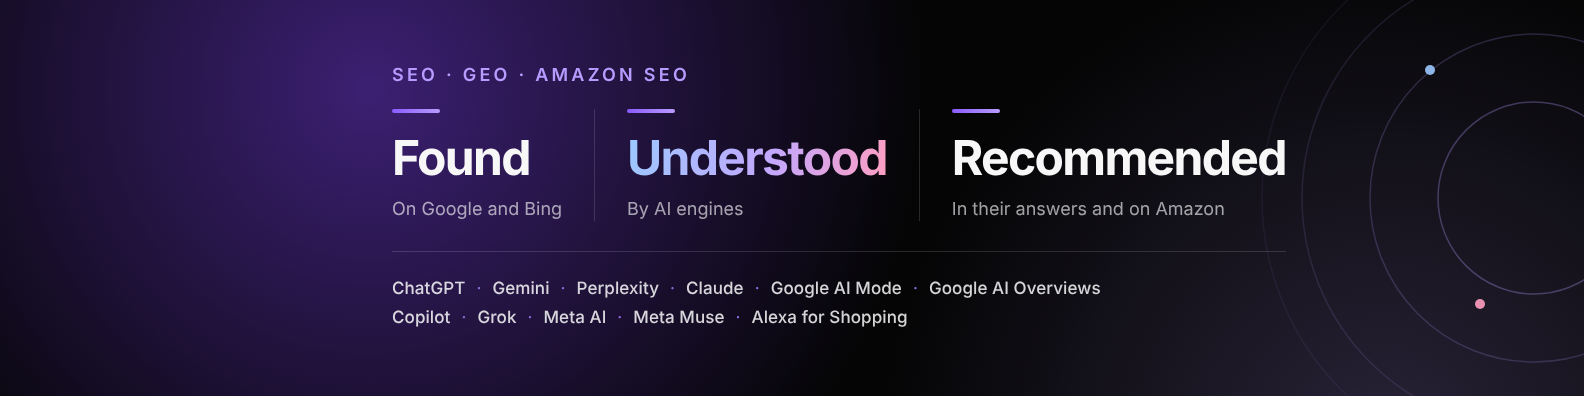
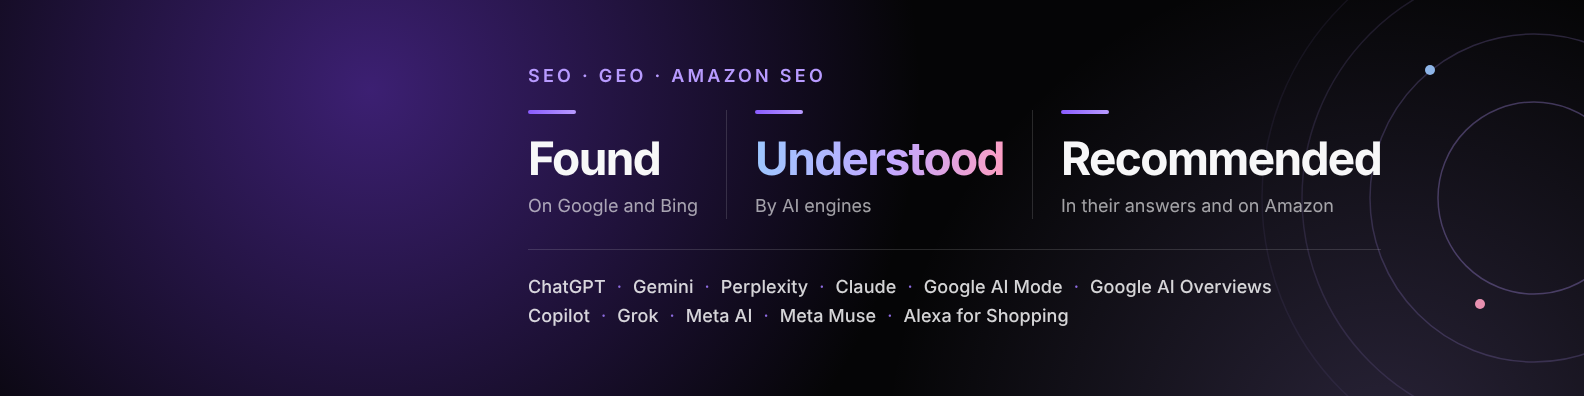
LinkedIn cover v2: text moved clear of the larger phone profile photo, larger engines list
Claude-Session: https://claude.ai/code/session_011B6n1KvdKxxhX2vFogUzTv

diff --git a/linkedin/PERFIL.md b/linkedin/PERFIL.md
@@ -31,3 +31,4 @@ Versión en inglés: ver `docs/LINKEDIN-PROFILE.md` en el repo GEONOS (PR #292 a
 ### Portada, versión 2 (2026-10-27)
 Rehecha con el estilo de diseño premium (fondo negro de la marca, violeta y lila, Inter, ritmo de 8 puntos): tres ideas de tu texto "Acerca de" (encontrado, entendido, recomendado), con SEO, GEO y Amazon SEO arriba. Sin nombre de producto ni logo. Archivos en `linkedin/portada/`: `portada-linkedin-v2-es-1584x396.png` (principal), `portada-linkedin-v2-en-1584x396.png` (por si usas el perfil en inglés), las dos al doble (3168 x 792), `vista-previa-computadora-v2.png` (el círculo gris simula tu foto) y el script `banner2.cjs`. La versión 1 se conserva. Probar en computadora y en celular antes de dejarla.
 Actualización de la portada v2 (2026-10-27): se agregó debajo de las tres ideas la lista completa de motores (ChatGPT, Gemini, Perplexity, Claude, Google AI Mode, Google AI Overviews, Copilot, Grok, Meta AI, Meta Muse y Alexa for Shopping). Sin conteo de motores en el texto, como en el resto del sitio.
+Ajuste por la captura del celular (2026-10-27): en el teléfono la foto de perfil es mucho más grande y tapaba el inicio de la lista de motores. Se movió todo el texto a la derecha (empieza en x = 528 de 1584, fuera de la zona de la foto en celular) y se agrandó un poco la lista de motores. Hay una vista previa del celular en `linkedin/portada/vista-previa-celular-v2.png`.
